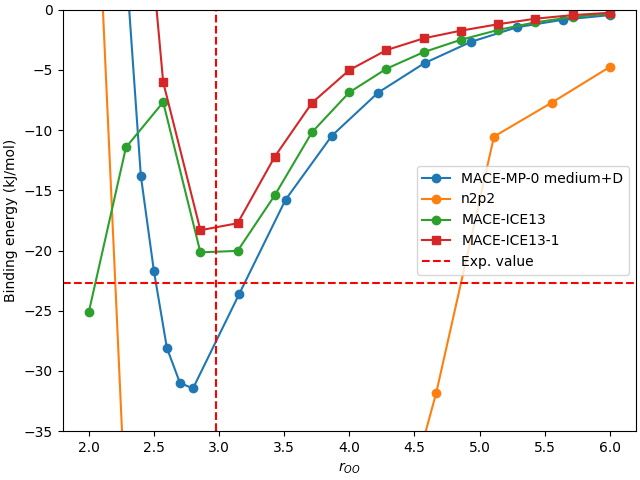
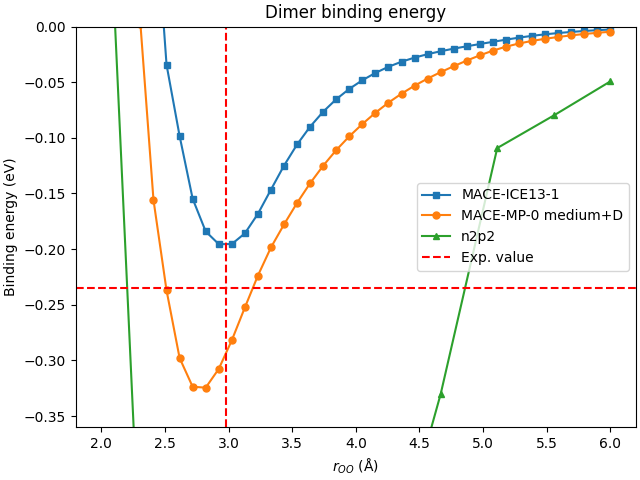
Aggiusta grafico binding energy
Infittisci i punti, per mostrare meglio l'andamento attorno al minimo.
Usa unità in elettronvolt per le energie. Aggiungi titolo. Rimuovi
modello di MACE intermedio.

diff --git a/simulazioni/02_water/02_dimer/02_binding_energy/analysis.py b/simulazioni/02_water/02_dimer/02_binding_energy/analysis.py
@@ -1,7 +1,7 @@
 import marimo
 
-__generated_with = "0.3.3"
-app = marimo.App(layout_file="layouts/analysis.grid.json")
+__generated_with = "0.3.9"
+app = marimo.App()
 
 
 @app.cell(hide_code=True)
@@ -59,8 +59,10 @@ def __(pd):
 
 @app.cell
 def __(df_binding_energy):
-    with open("../../01_molecule/01.8_molecule_converge_fmax_parallel_dispersion/medium/1e-8/e_gas.txt",
-        "r",) as _f:
+    with open(
+        "../../01_molecule/01.8_molecule_converge_fmax_parallel_dispersion/medium/1e-8/e_gas.txt",
+        "r",
+    ) as _f:
         e_gas_ev = float(_f.read())
         df = df_binding_energy("MACE-MP-0", e_gas_ev)
     return df, e_gas_ev
@@ -95,49 +97,51 @@ def __(df_binding_energy):
 
 
 @app.cell
-def __(df, df_ice13, df_mace_ice13_1, df_n2p2):
+def __(df, df_mace_ice13_1, df_n2p2):
     # Plot all the data
     import matplotlib.pyplot as plt
 
     fig, ax = plt.subplots(layout="constrained")
 
     ax.plot(
+        df_mace_ice13_1["distance"],
+        df_mace_ice13_1["binding_energy"],
+        label="MACE-ICE13-1",
+        marker="s",
+        markersize=5,
+    )
+    ax.plot(
         df["distance"],
-        df["binding_energy_kjmol"],
+        df["binding_energy"],
         label="MACE-MP-0 medium+D",
         marker="o",
+        markersize=5,
     )
     ax.plot(
         df_n2p2["distance"],
-        df_n2p2["binding_energy_kjmol"],
+        df_n2p2["binding_energy"],
         label="n2p2",
-        marker="o",
-    )
-    ax.plot(
-        df_ice13["distance"],
-        df_ice13["binding_energy_kjmol"],
-        label="MACE-ICE13",
-        marker="o",
-    )
-    ax.plot(
-        df_mace_ice13_1["distance"],
-        df_mace_ice13_1["binding_energy_kjmol"],
-        label="MACE-ICE13-1",
-        marker="s",
+        marker="^",
+        markersize=5,
     )
 
-    ax.set_xlabel("$r_{OO}$")
-    ax.set_ylabel("Binding energy (kJ/mol)")
+    ax.set_xlabel("$r_{OO}$ (Å)")
+    ax.set_ylabel("Binding energy (eV)")
 
-    ax.set_ylim(-35, 0)
+    # ax.set_ylim(-35, 0)
+    ax.set_ylim(-0.36, 0)
 
     # Draw a horizontal line
-    ax.axhline(y=-22.7, color="r", linestyle="--", label="Exp. value")
+    # kjmol : -22.7
+    # 22.7 kilojoule / mole = 0.235268921197 eV
+    ax.axhline(y=-0.235268921197, color="r", linestyle="--", label="Exp. value")
 
     # Draw a vertical line
+    # angstrom : 2.98
     ax.axvline(x=2.98, color="r", linestyle="--")
 
     ax.legend()
+    plt.title("Dimer binding energy")
 
     # fig.savefig("binding_energy.png")
     return ax, fig, plt
